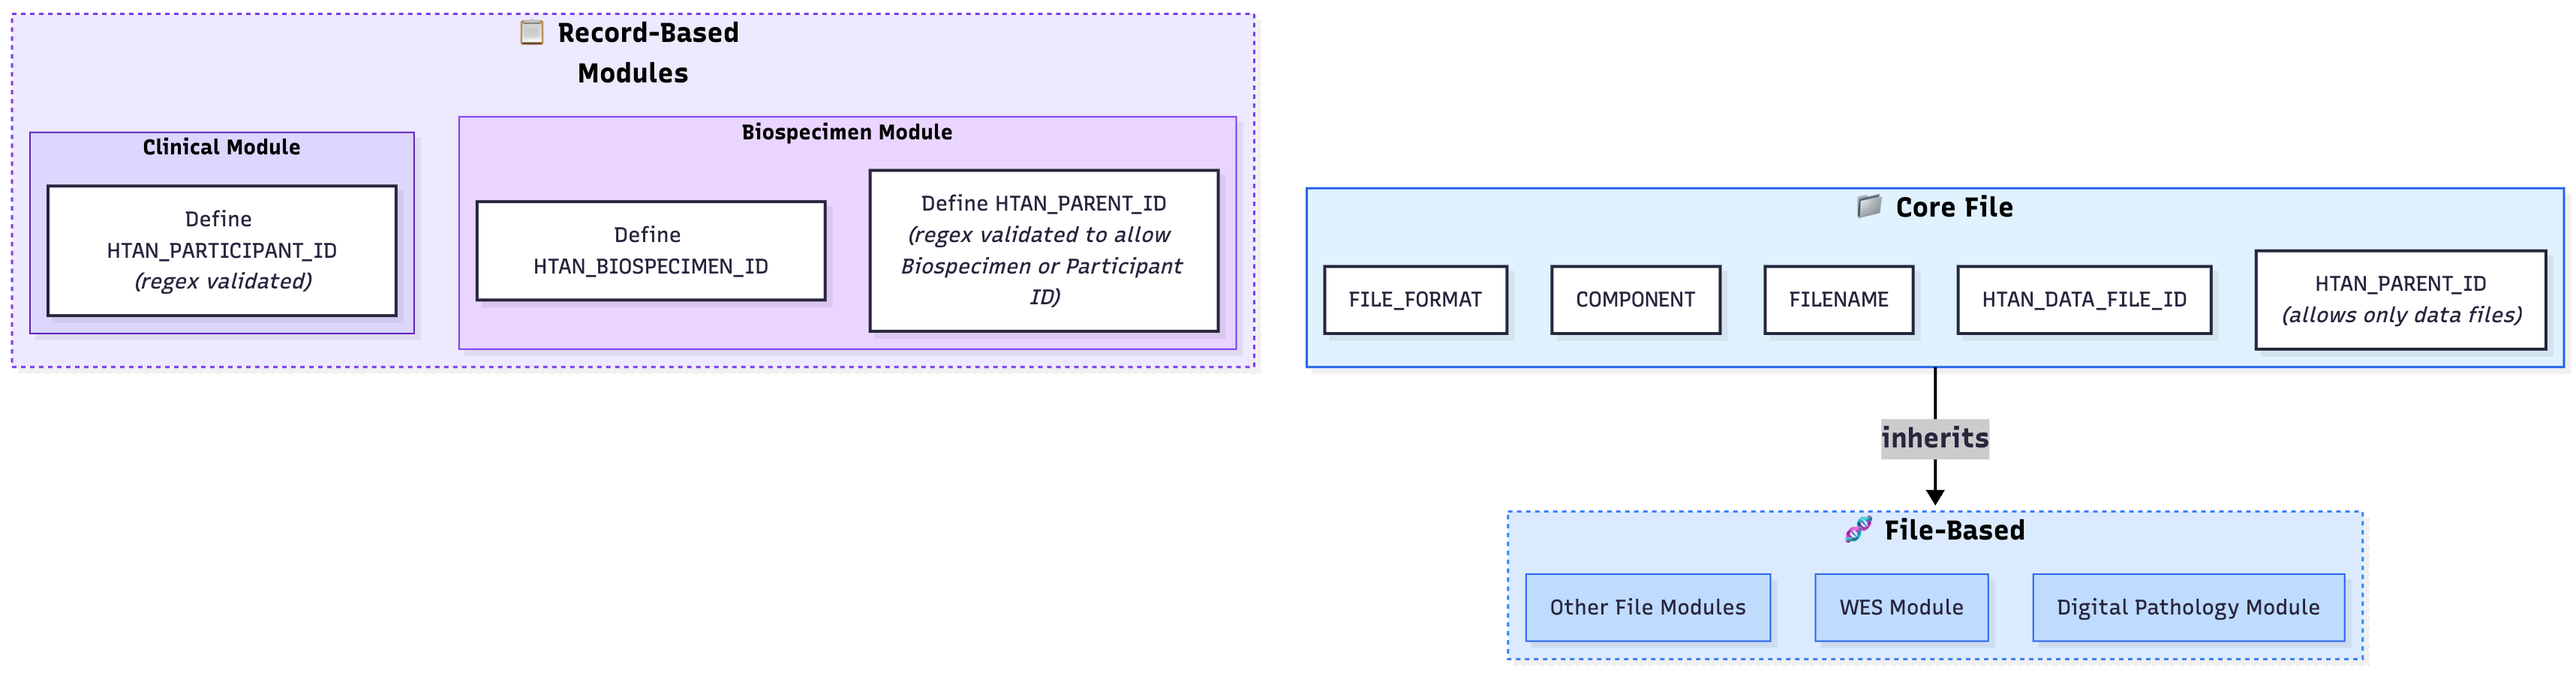
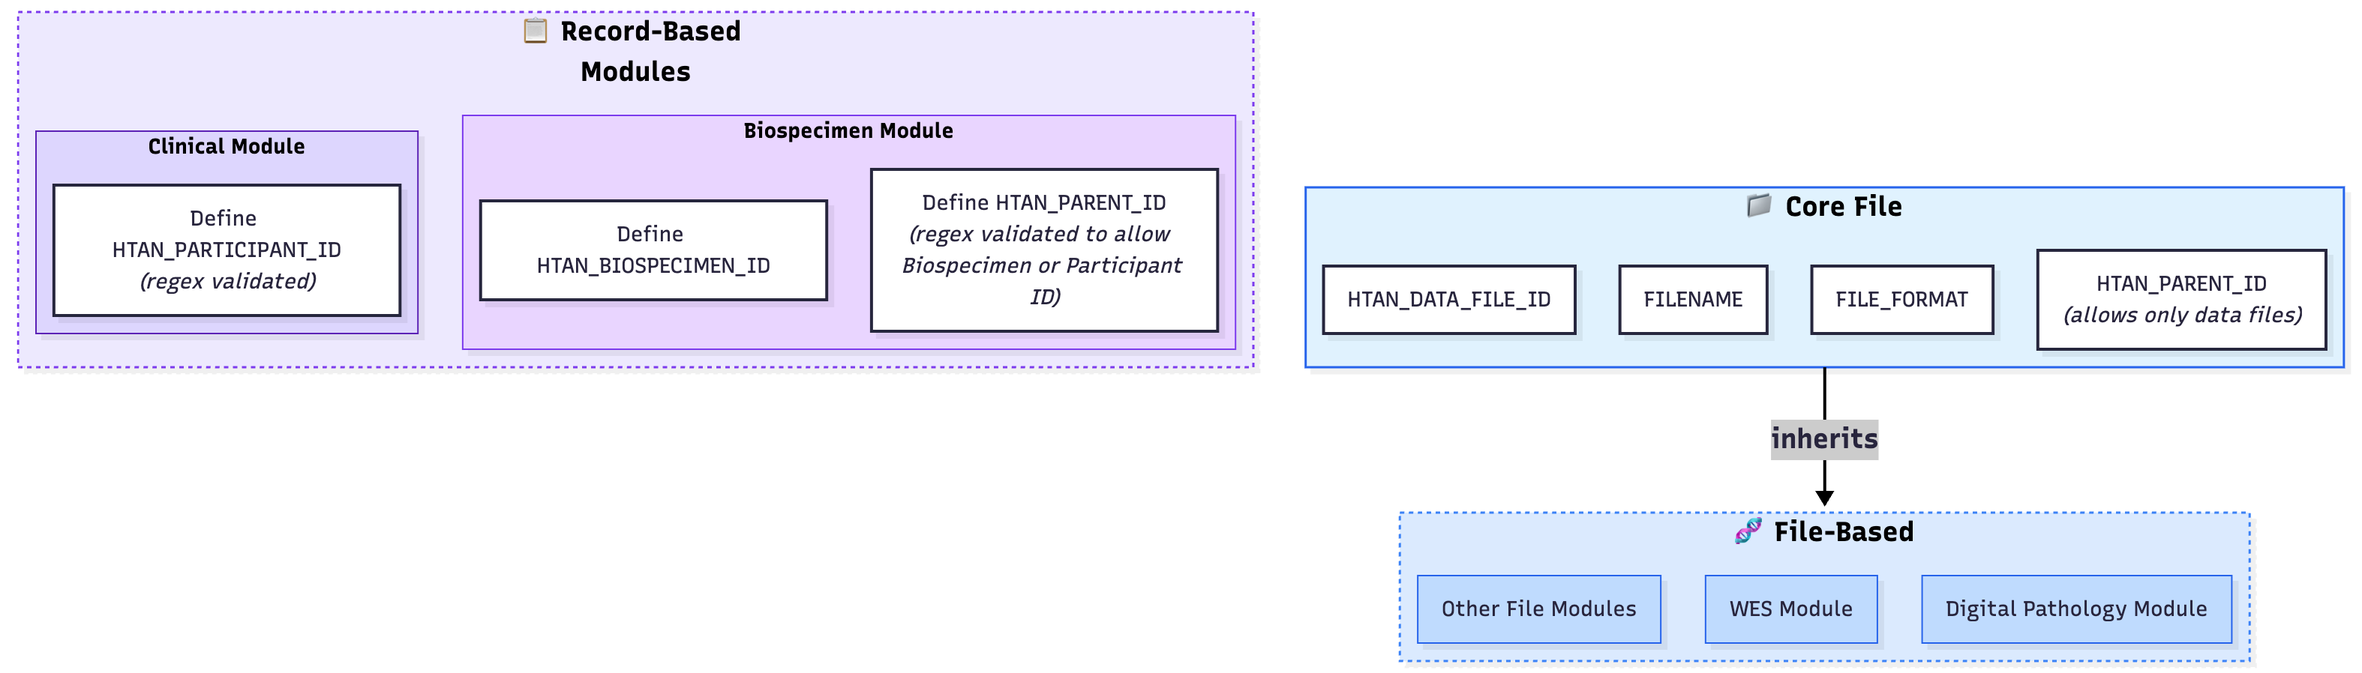
refactor: remove COMPONENT field from CoreFile and WES schemas
- Remove COMPONENT from CoreFileAttributes (redundant - schema name indicates component)
- Remove COMPONENT from WESData container class
- Update CoreFile README to remove COMPONENT references

The component/category can be determined from the schema name itself,
making this field redundant. This simplifies the data model.

diff --git a/modules/CoreFile/README.md b/modules/CoreFile/README.md
@@ -9,11 +9,10 @@ Defines common attributes that every file-based data type in HTAN must have, eli
 ## Universal Attributes
 
 ### Required Attributes
-- **COMPONENT**: Category of metadata (e.g., "Bulk WES Level 1", "scRNA-seq Level 2")
 - **FILENAME**: Name of the file (pattern: `^.+[\\\\/]\\S*$`)
 - **FILE_FORMAT**: Format of the file (e.g., fastq, bam, vcf, h5ad)
 - **HTAN_DATA_FILE_ID**: HTAN Data File ID (Primary Key)
-- **HTAN_PARENT_ID**: HTAN Parent ID - Foreign Key to parent entity (B for Biospecimen, D for data file)
+- **HTAN_PARENT_ID**: HTAN Parent ID - Foreign Key to parent entity (D for data file only)
 
 ### Optional Attributes
 - None currently defined
@@ -28,7 +27,6 @@ Defines common attributes that every file-based data type in HTAN must have, eli
 
 ### Foreign Key
 - **HTAN_PARENT_ID**: References parent entity using suffix convention:
-  - `_B####` - References a biospecimen (e.g., `HTA200_2_B7001`)
   - `_D####` - References a data file (e.g., `HTA200_2_D36667`)
 
 ### Data Hierarchy
@@ -47,8 +45,8 @@ Participant (HTAN_PARTICIPANT_ID)
 - **Examples**: `HTA200_2_36667`, `HTA200_EXT001_36667`
 
 ### HTAN_PARENT_ID
-- **Pattern**: `^(HTA20[0-9])(?:_0000)?(?:_\d+)?(?:_EXT\d+)?_(B|D)\d{1,50}$`
-- **Examples**: `HTA200_2_B7001` (biospecimen), `HTA200_2_D36667` (data file)
+- **Pattern**: `^(HTA20[0-9])(?:_0000)?(?:_\d+)?(?:_EXT\d+)?_D\d{1,50}$`
+- **Examples**: `HTA200_2_D36667` (data file)
 
 ## Usage
 
